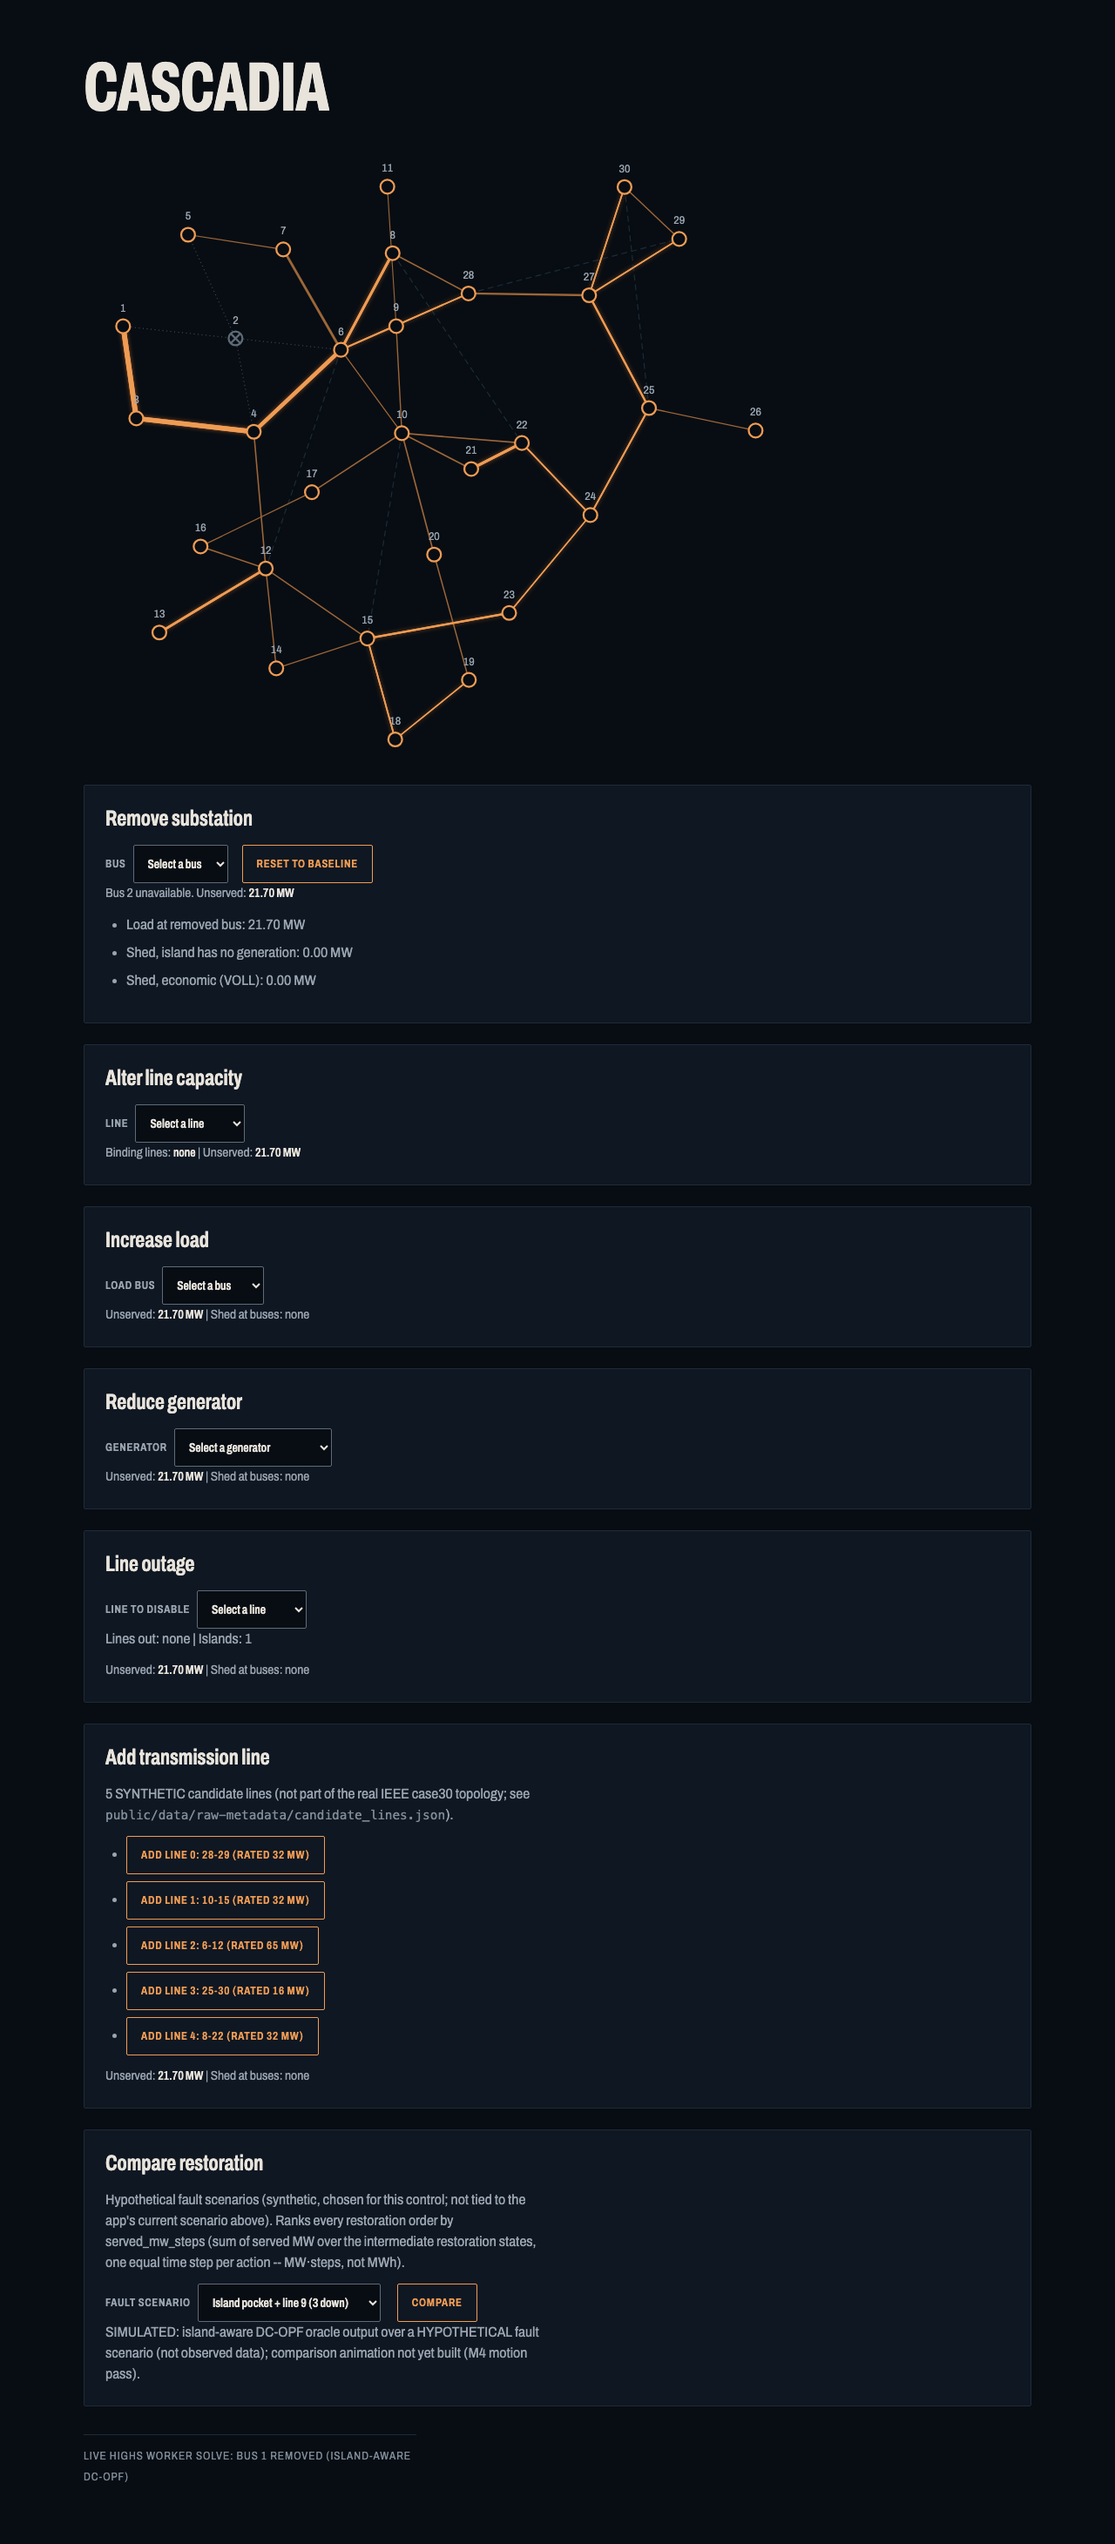
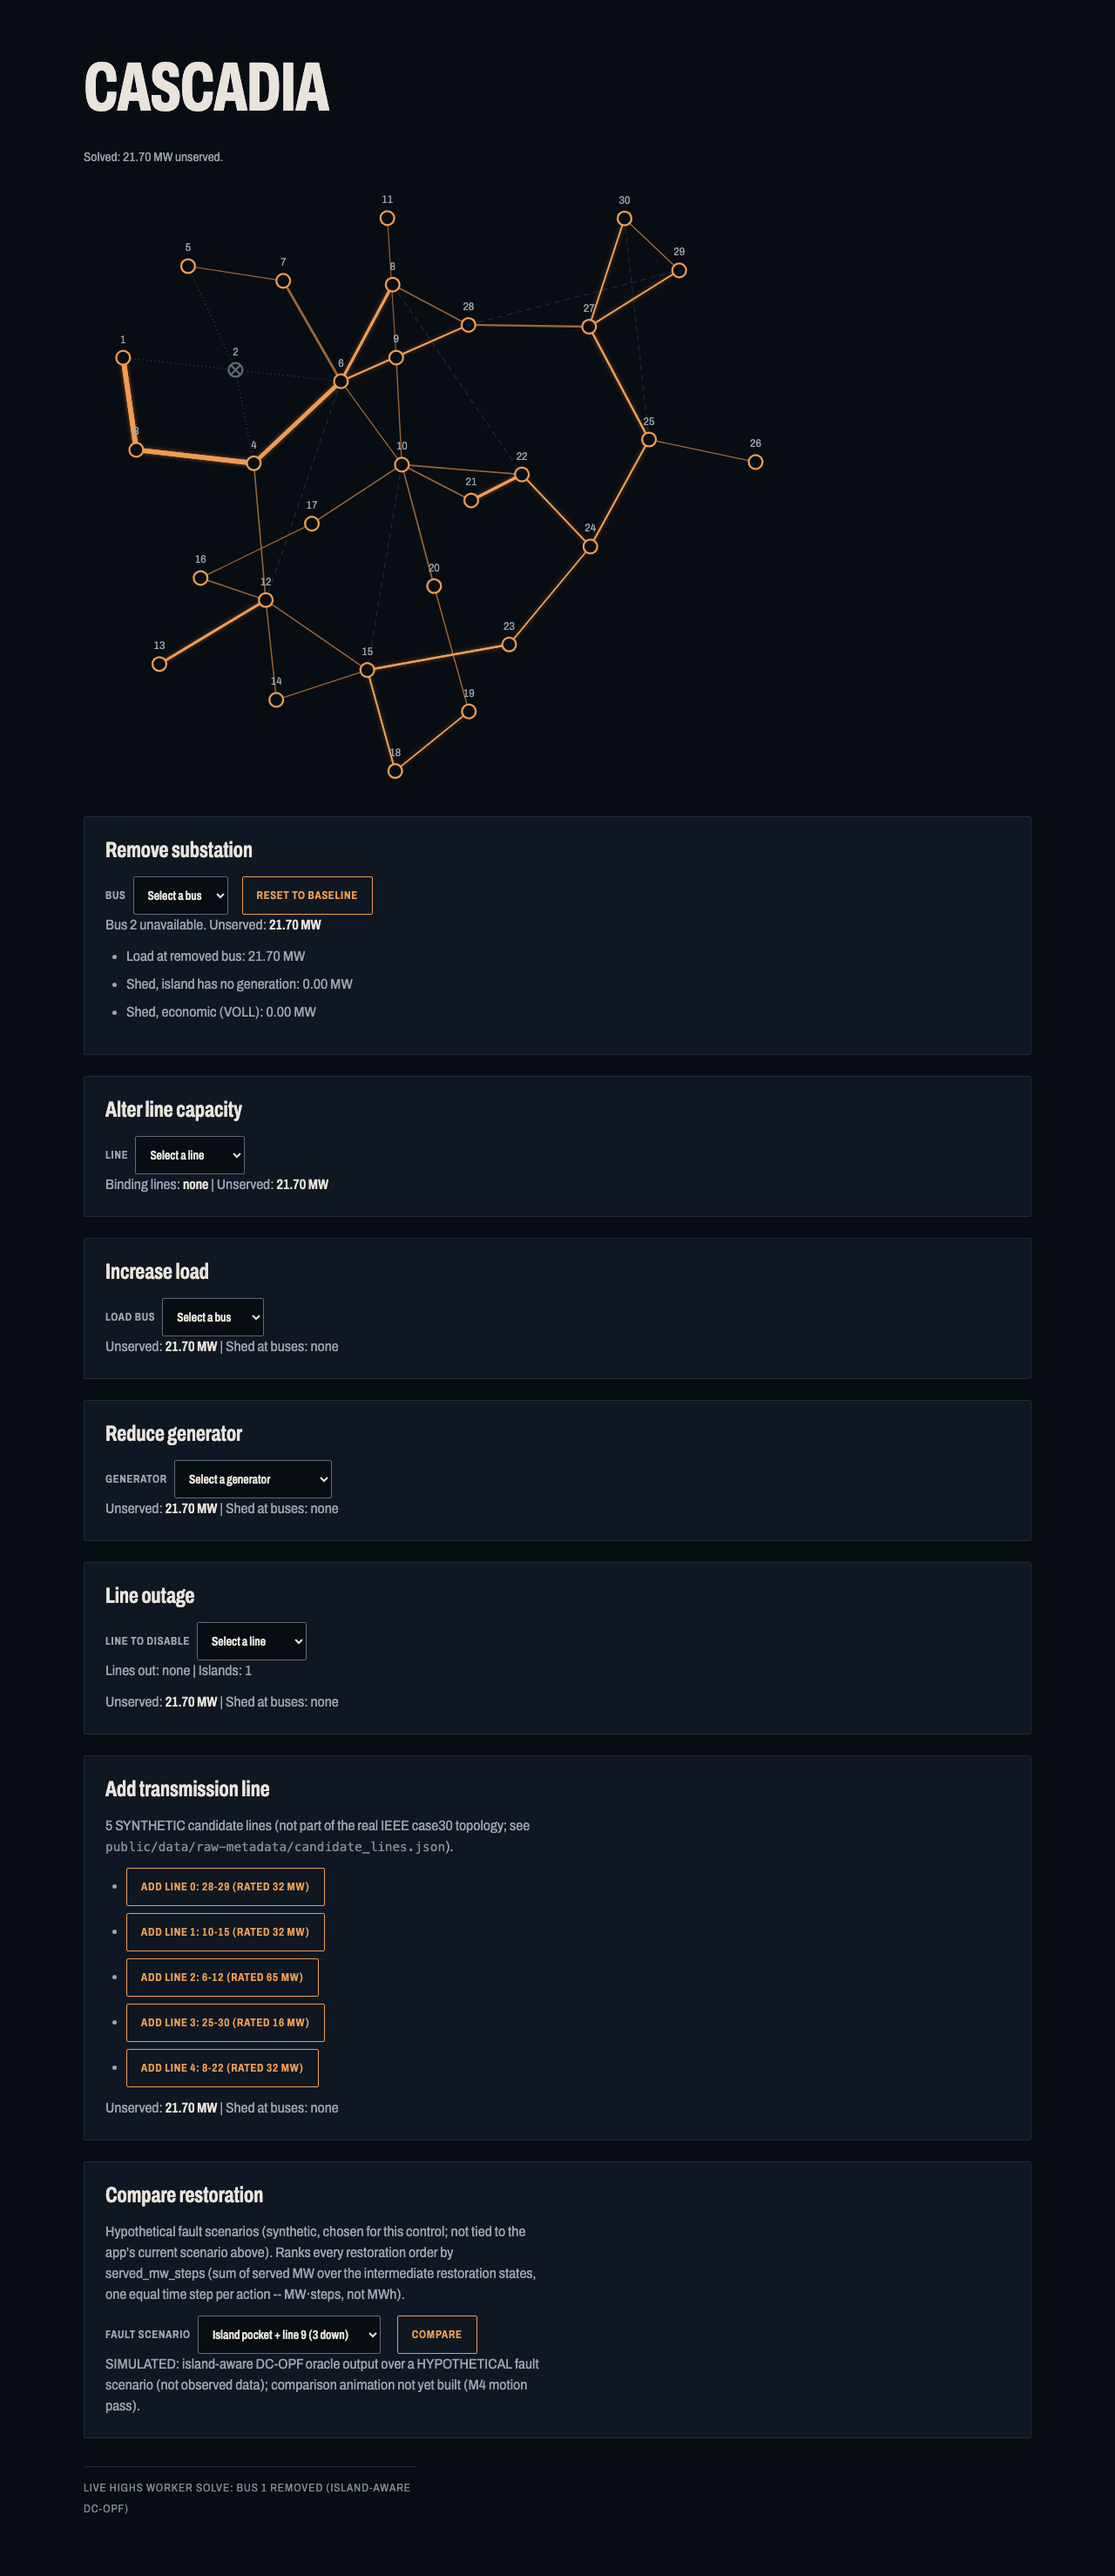
Fix duplicate ARIA live regions across controls
RemoveNode, AlterCapacity, and the 4 call sites of ScenarioReadout each
carried their own role="status"/role="alert" element, which implicitly
becomes a live region. A single solve fired up to 6 duplicate screen-reader
announcements of the same event, and dual-mounting any control for a
chapter plus the chapter 6 lab would double whichever of those were
mounted at once.

Added StatusRegion (main scenario subsystem) and RestorationStatusRegion
(CompareRestoration's separate Worker/subsystem), each mounted exactly once
in App.tsx, as the only live-announcing elements. Stripped the live-region
attributes from every per-control status paragraph (kept as plain, visually
identical text). Added an e2e regression test confirming exactly one live
region exists at baseline and exactly two once restoration has run;
mutation-checked by reverting to the pre-fix code and confirming it then
reports 6.

Claude-Session: https://claude.ai/code/session_013LXAeCP2f7TfBWjXG9626r

diff --git a/src/interactions/ScenarioReadout.tsx b/src/interactions/ScenarioReadout.tsx
@@ -3,6 +3,11 @@ import { useApp } from '../app/state'
 // Reset is the single shared 'Reset to baseline' button in RemoveNode (clears all fields).
 // Shared status block for the CAS-INT-002/003/007 controls. Every number is from the latest Worker result;
 // infeasible shows n/a, never 0.00 (see NO_FAKE_NUMBERS_AUDIT #6).
+//
+// Architecture-stabilization fix: these used to be role="status"/role="alert" elements -- each one an
+// independent live region, so a single solve triggered a duplicate screen-reader announcement per
+// mounted control (and would double again on dual-mount). The single shared <StatusRegion/> (App.tsx)
+// is now the only live-announcing element; this stays plain text, visually identical, silent to AT.
 export function ScenarioReadout({ id }: { id: string }) {
   const { state } = useApp()
   const { result, solve, solveError } = state
@@ -11,10 +16,10 @@ export function ScenarioReadout({ id }: { id: string }) {
   const shed = Object.entries(r.shed).filter(([, v]) => v > 0)
   return (
     <>
-      {solve === 'solving' && <p role="status">Solving DC-OPF in Worker...</p>}
-      {solve === 'error' && <p role="alert">Solve failed: {solveError}</p>}
-      {r.status === 'infeasible' && <p role="alert">Infeasible: {r.diagnostics.join('; ') || 'no feasible dispatch'}</p>}
-      <p role="status" aria-live="polite">
+      {solve === 'solving' && <p>Solving DC-OPF in Worker...</p>}
+      {solve === 'error' && <p>Solve failed: {solveError}</p>}
+      {r.status === 'infeasible' && <p>Infeasible: {r.diagnostics.join('; ') || 'no feasible dispatch'}</p>}
+      <p>
         Unserved: <strong data-testid={`${id}-unserved`}>{r.status === 'infeasible' ? 'n/a (infeasible)' : `${r.total_unserved_mw.toFixed(2)} MW`}</strong>
         {r.status !== 'infeasible' && <> | Shed at buses: <span data-testid={`${id}-shed`}>{shed.length ? shed.map(([b, v]) => `${state.network?.buses[+b].name ?? b} ${v.toFixed(2)} MW`).join(', ') : 'none'}</span></>}
       </p>

diff --git a/src/interactions/RemoveNode.tsx b/src/interactions/RemoveNode.tsx
@@ -39,13 +39,17 @@ export function RemoveNode() {
           that solve's eventual resolution is discarded rather than overwriting the just-reset state when
           it lands. Disabled only when there's genuinely nothing to reset (no confirmed or pending change). */}
       <button disabled={removedBus === null && pending === null && result === state.baseline} onClick={() => dispatch({ type: 'reset' })}>Reset to baseline</button>
-      {solving && <p role="status">Solving island-aware DC-OPF in Worker...</p>}
-      {solve === 'error' && <p role="alert">Solve failed: {solveError}</p>}
-      {r.status === 'infeasible' && <p role="alert">Infeasible: {r.diagnostics.join('; ') || 'no feasible dispatch'}</p>}
+      {/* Architecture-stabilization fix: these were role="status"/role="alert" (each an independent
+          live region) -- a single solve triggered duplicate screen-reader announcements across every
+          mounted control. The shared <StatusRegion/> (App.tsx) is now the only live-announcing
+          element; these stay plain text, visually identical, silent to AT. */}
+      {solving && <p>Solving island-aware DC-OPF in Worker...</p>}
+      {solve === 'error' && <p>Solve failed: {solveError}</p>}
+      {r.status === 'infeasible' && <p>Infeasible: {r.diagnostics.join('; ') || 'no feasible dispatch'}</p>}
       {/* Infeasible means no valid dispatch exists at all -- showing "0.00 MW" here would read as
           "fully served", not "undefined". n/a is deliberately not a number. Found by the
           no_fake_numbers_audit task's adversarial review (verification/NO_FAKE_NUMBERS_AUDIT.md #6). */}
-      <p role="status" aria-live="polite">
+      <p>
         {removedBus !== null && <>Bus {network.buses[removedBus].name} unavailable. </>}
         Unserved: <strong data-testid="unserved-mw">{r.status === 'infeasible' ? 'n/a (infeasible)' : mw(r.total_unserved_mw)}</strong>
       </p>

diff --git a/src/interactions/AlterCapacity.tsx b/src/interactions/AlterCapacity.tsx
@@ -99,13 +99,17 @@ export function AlterCapacity() {
           <label><input type="checkbox" checked={allowShed} onChange={e => { dispatch({ type: 'setCapDraft', factor, allowShed: e.target.checked }); fire(factor, e.target.checked) }} /> Allow load shedding</label>
         </div>
       )}
-      {solving && <p role="status">Solving DC-OPF in Worker...</p>}
-      {solve === 'error' && <p role="alert">Solve failed: {solveError}</p>}
-      {r.status === 'infeasible' && <p role="alert">Infeasible: {r.diagnostics.join('; ') || 'no feasible dispatch'}</p>}
+      {/* Architecture-stabilization fix: these were role="status"/role="alert" (each an independent
+          live region) -- a single solve triggered duplicate screen-reader announcements across every
+          mounted control. The shared <StatusRegion/> (App.tsx) is now the only live-announcing
+          element; these stay plain text, visually identical, silent to AT. */}
+      {solving && <p>Solving DC-OPF in Worker...</p>}
+      {solve === 'error' && <p>Solve failed: {solveError}</p>}
+      {r.status === 'infeasible' && <p>Infeasible: {r.diagnostics.join('; ') || 'no feasible dispatch'}</p>}
       {/* Infeasible means no valid dispatch exists; "0.00 MW" would read as "fully served". n/a is
           deliberately not a number. Found by no_fake_numbers_audit's adversarial review
           (verification/NO_FAKE_NUMBERS_AUDIT.md #6). */}
-      <p role="status" aria-live="polite">
+      <p>
         {r.status === 'infeasible' ? (
           <>Binding lines: <strong data-testid="binding-lines">n/a (infeasible)</strong>
           {' '}| Unserved: <strong data-testid="cap-unserved">n/a (infeasible)</strong></>

diff --git a/src/interactions/StatusRegion.tsx b/src/interactions/StatusRegion.tsx
@@ -1,0 +1,19 @@
+import { useApp } from '../app/state'
+
+// Architecture-stabilization fix (advisor review): RemoveNode, AlterCapacity and all 4 call sites of
+// ScenarioReadout each used to carry their OWN role="status"/role="alert" element, every one of which
+// implicitly becomes a live region (ARIA's default aria-live for those roles). A single solve already
+// triggered up to 6 simultaneous screen-reader announcements of the same event; dual-mounting any
+// control for chapter + lab would have doubled whichever of those were mounted. DESIGN_SYSTEM.json's
+// own componentStates.statusRegion token already specifies ONE shared status region -- this is it,
+// mounted exactly once in App.tsx. Every control's own status paragraph stays as plain (non-live)
+// text for sighted users; this is the only thing a screen reader actually hears.
+export function StatusRegion() {
+  const { state } = useApp()
+  const { result, solve, solveError } = state
+  if (solve === 'solving') return <p role="status" aria-live="polite">Solving DC-OPF in Worker...</p>
+  if (solve === 'error') return <p role="alert">Solve failed: {solveError}</p>
+  if (result?.result.status === 'infeasible') return <p role="alert">Infeasible: {result.result.diagnostics.join('; ') || 'no feasible dispatch'}</p>
+  if (!result) return null
+  return <p role="status" aria-live="polite">Solved: {result.result.total_unserved_mw.toFixed(2)} MW unserved.</p>
+}

diff --git a/src/interactions/CompareRestoration.tsx b/src/interactions/CompareRestoration.tsx
@@ -42,11 +42,16 @@ export function CompareRestoration() {
         </select>
       </label>{' '}
       <button disabled={status === 'loading'} onClick={() => void compareRestoration(preset.down)}>Compare</button>
-      {status === 'loading' && <p role="status">Ranking {factorial(preset.down.length)} orders in Worker...</p>}
-      {status === 'error' && <p role="alert">Rank failed: {error}</p>}
+      {/* Architecture-stabilization fix: these were role="status"/role="alert" (each an independent
+          live region). A single mounted instance was already fine; dual-mounting (chapter 5 + lab,
+          per docs/ART_DIRECTION.md) would have doubled the announcement. The shared
+          <RestorationStatusRegion/> (App.tsx) is now the only live-announcing element for this
+          subsystem; these stay plain text, visually identical, silent to AT. */}
+      {status === 'loading' && <p>Ranking {factorial(preset.down.length)} orders in Worker...</p>}
+      {status === 'error' && <p>Rank failed: {error}</p>}
       {ranking && best && sel && (
         <>
-          <p role="status" aria-live="polite">
+          <p>
             <span data-testid="cr-n-orders">{ranking.length}</span> orders ranked. Best: rank {best.rank}, order [{best.order.join(', ')}], <span data-testid="cr-best-served">{best.served_mw_steps.toFixed(2)}</span> MW&middot;steps.
           </p>
           <ul>

diff --git a/e2e/a11y.spec.ts b/e2e/a11y.spec.ts
@@ -14,3 +14,16 @@ test("axe-core: baseline page has zero violations", async ({ page }) => {
   }
   expect(results.violations).toEqual([]);
 });
+
+// Architecture-stabilization regression: RemoveNode/AlterCapacity/ScenarioReadout used to each carry
+// their own role="status"/role="alert" element, so a single solve fired up to 6 duplicate screen-reader
+// announcements. StatusRegion/RestorationStatusRegion (App.tsx) are now the ONLY live-announcing
+// elements: exactly one for the main scenario subsystem, plus a second once restoration has run.
+test("exactly one live region announces the main scenario; a second appears only once restoration runs", async ({ page }) => {
+  await page.goto("/");
+  await page.waitForSelector(".provenance");
+  const liveRegions = () => page.locator('[role="status"], [role="alert"]');
+  await expect(liveRegions()).toHaveCount(1);
+  await page.getByRole("button", { name: "Compare" }).click();
+  await expect(liveRegions()).toHaveCount(2, { timeout: 5000 });
+});

diff --git a/src/app/App.tsx b/src/app/App.tsx
@@ -6,6 +6,8 @@ import { ReduceGenerator } from '../interactions/ReduceGenerator'
 import { LineOutage } from '../interactions/LineOutage'
 import { AddLine } from '../interactions/AddLine'
 import { CompareRestoration } from '../interactions/CompareRestoration'
+import { StatusRegion } from '../interactions/StatusRegion'
+import { RestorationStatusRegion } from '../interactions/RestorationStatusRegion'
 import { NetworkView } from '../visualization/NetworkView'
 
 export function Scene() {
@@ -15,6 +17,8 @@ export function Scene() {
   return (
     <main>
       <h1>CASCADIA</h1>
+      <StatusRegion />
+      <RestorationStatusRegion />
       <NetworkView network={state.network} result={state.result.result} removedBus={state.removedBus}
         selectedBus={state.selectedBus} onSelect={bus => dispatch({ type: 'select', bus })}
         selectedLine={state.selectedLine} onSelectLine={line => dispatch({ type: 'selectLine', line })}

diff --git a/src/interactions/RestorationStatusRegion.tsx b/src/interactions/RestorationStatusRegion.tsx
@@ -1,0 +1,15 @@
+import { useApp } from '../app/state'
+
+// Single shared live region for CAS-INT-006's restoration subsystem (see StatusRegion.tsx for the
+// main scenario's equivalent, and the architecture-stabilization comment there for why this exists).
+// Deliberately separate from StatusRegion: restoration has its own Worker/status, independent of the
+// main scenario solve, matching the story/lab boundary's subsystem separation
+// (docs/planning/cascadia/CHAPTER_ARCHITECTURE.md).
+export function RestorationStatusRegion() {
+  const { state } = useApp()
+  const { status, error, ranking } = state.restoration
+  if (status === 'loading') return <p role="status" aria-live="polite">Ranking restoration orders in Worker...</p>
+  if (status === 'error') return <p role="alert">Rank failed: {error}</p>
+  if (ranking) return <p role="status" aria-live="polite">{ranking.length} restoration orders ranked.</p>
+  return null
+}
